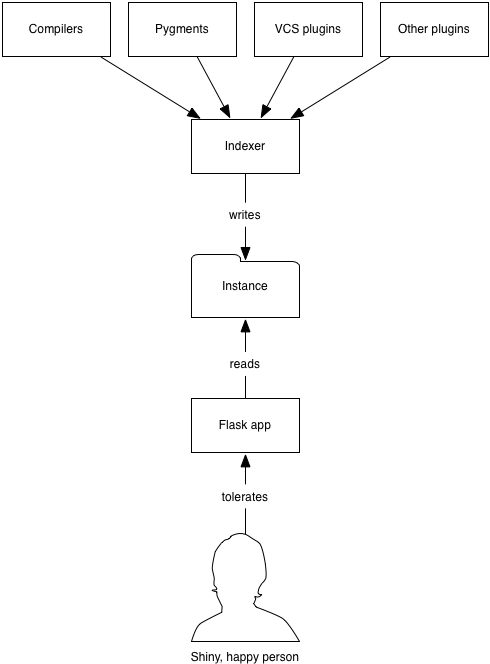
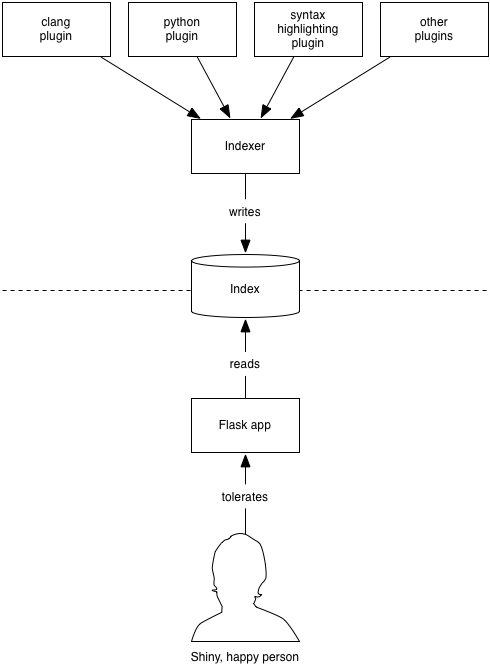
Bring Development chapter up to date.

diff --git a/dxr/plugins/__init__.py b/dxr/plugins/__init__.py
@@ -48,8 +48,8 @@ class Plugin(object):
         :arg mappings: Additional Elasticsearch mapping definitions for all the
             plugin's elasticsearch-destined data. A dict with keys for each
             doctype and values reflecting the structure described at
-            http://www.elasticsearch.org/guide/en/elasticsearch/reference/
-            current/indices-put-mapping.html. Since a FILE-domain query will
+            http://www.elastic.co/guide/en/elasticsearch/reference/current/indices-put-mapping.html.
+            Since a FILE-domain query will
             be promoted to a LINE query if any other query term triggers a
             line-based query, it's important to keep field names and semantics
             the same between lines and files. In other words, a LINE mapping
@@ -57,8 +57,7 @@ class Plugin(object):
         :arg analyzers: Analyzer, tokenizer, and token and char filter
             definitions for the elasticsearch mappings. A dict with keys
             "analyzer", "tokenizer", etc., following the structure outlined at
-            http://www.elasticsearch.org/guide/en/elasticsearch/reference/
-            current/analysis.html.
+            http://www.elastic.co/guide/en/elasticsearch/reference/current/analysis.html.
         :arg direct_searchers: Functions that provide direct search
             capability. Each must take a single query term of type 'text',
             return an elasticsearch filter clause to run against LINEs, and

diff --git a/docs/source/development.rst b/docs/source/development.rst
@@ -8,32 +8,31 @@ Architecture
 
 .. image:: block-diagram.png
 
-DXR divides into 2 halves:
+DXR divides into 2 halves, with the index in the middle:
 
 1. The indexer, run via :program:`dxr index`, is a batch job which analyzes
-   code and builds on-disk indices.
+   code and builds indices in elasticsearch.
 
    The indexer hosts various plugins which handle everything from syntax
-   coloring to static analysis. The clang plugin, for example, which handles
-   structural analysis of C++ code, builds the project under clang while
-   interposing a custom compiler plugin. The plugin rides sidecar with the
-   compiler, dumping out structural data into CSV files, which the DXR plugin
-   later uses to fill elasticsearch with the information that supports
+   coloring to static analysis. The clang plugin, for example, handles
+   structural analysis of C++ code by building the project under clang while
+   interposing a custom compiler plugin that dumps out data during
+   compilation. This is later pulled into elasticsearch, where it supports
    structural queries like ``callers:`` and ``function:``.
 
    Generally, the indexer is kicked off asynchronously—often even on a separate
    machine—by cron or a build system. It's up to deployers to come up with
    strategies that make sense for them.
 
-2. A Flask web application which lets users query those indices.
-   :program:`dxr serve` is a way to run the application for development
-   purposes, but a more robust method should be used for :doc:`deployment`.
+2. A Flask web application which lets users query indices. :program:`dxr
+   serve` is a way to run the application for development purposes, though a
+   more robust method should be used for :doc:`deployment`.
 
 
 Setting Up
 ----------
 
-Here we show the fastest way to get hacking on DXR.
+Here is the fastest way to get hacking on DXR.
 
 .. include:: download-boot-and-build.rst
 
@@ -63,7 +62,7 @@ host and still use the VM to run DXR.
 After making changes to DXR, a build step is sometimes needed to see the
 effects of your work:
 
-Changes to C-based compiler plugins:
+Changes to C++ or other code with an explicit compilation phase:
     ``make`` (at the root of the project)
 
 Changes to HTML templates that are used on the client side:
@@ -72,12 +71,14 @@ Changes to HTML templates that are used on the client side:
     and it will take care of recompiling the templates as necessary.
 
 Changes to the format of the elasticsearch index:
-    Run ``dxr index`` inside :file:`tests/test_basic`.
+    Re-run ``dxr index`` inside your test folder (e.g.,
+    :file:`tests/test_basic`). Before committing, you should increment the
+    :term:`format version`.
 
-Stop :program:`dxr serve`, run the build step, and then fire up the server
-again. If you're changing Python code that runs only at request time, you
-shouldn't need to do anything; :program:`dxr serve` should notice and
-restart itself a few seconds after you save.
+Stop :program:`dxr serve`, run any applicable build steps, and then fire up
+the server again. If you're changing Python code that runs only at request
+time, you shouldn't need to do anything; :program:`dxr serve` will notice
+and restart itself a few seconds after you save.
 
 
 Testing
@@ -91,21 +92,23 @@ welcome as well, but we haven't got the harness set up yet.)
 Writing Tests for DXR
 =====================
 
-DXR supports two kinds of tests:
+DXR supports two kinds of integration tests:
 
-1. A lightweight sort with a single file worth of C++ code. This kind
-   stores the C++ source as a Python string within a subclass of
-   ``SingleFileTestCase``. At test time, it creates a DXR instance on
+1. A lightweight sort with a single file worth of analyzed code. This kind
+   stores the code as a Python string within a subclass of
+   ``SingleFileTestCase``. At test time, it instantiates the file on
    disk in a temp folder, builds it, and makes assertions about it. If
-   the ``should_delete_instance`` class variable is truthy, it then
-   deletes the instance. If you want to examine the instance manually
-   for troubleshooting, set this to ``False``.
+   the ``should_delete_instance`` class variable is truthy (the default), it
+   then deletes the instance. If you want to examine the instance manually for
+   troubleshooting, set this to ``False``.
 
-2. A heavier sort which consists of a full DXR instance on disk.
-   ``test_ignores`` is an example. Within these instances are one or
-   more Python files containing subclasses of ``DxrInstanceTestCase``
-   which express the actual tests. These instances can be built like any
-   other using ``dxr index``, in case you want to do manual exploration.
+2. A heavier sort of test: a folder containing one or more source trees and a
+   DXR config file. These are useful for tests that require a multi-file tree
+   to analyze or more than one tree. ``test_ignores`` is an example. Within
+   these folders are also one or more Python files containing subclasses of
+   ``DxrInstanceTestCase`` which express the actual tests. These trees can be
+   built like any other using ``dxr index``, in case you want to do manual
+   exploration.
 
 Running the Tests
 =================
@@ -133,27 +136,28 @@ periods.
 The Format Version
 ------------------
 
-In the top level of the :file:`dxr` package lurks a file called
+In the top level of the :file:`dxr` package (not the top of the source
+checkout, mind you) lurks a file called
 :file:`format`. Its role is to facilitate the automatic deployment of new
-versions of DXR using a script like the included :file:`deploy.py`. The format
-file contains an integer which represents the index format expected by
-:program:`dxr serve`. If a change in the code requires a schema or semantics
-change in the index, the format version must be incremented with the code
-change. In response, the deployment script will wait until a new instance, of
-the new format, has been built before deploying the change.
+versions of DXR using :program:`dxr deploy`. The format file contains an
+integer which represents the index format expected by
+:program:`dxr serve`. If a change in the code requires a mapping or semantics
+change in the index, the format version must be incremented. In response, the
+deployment script will wait until new indices, of the new format, have been
+built before deploying the change.
 
 If you aren't sure whether to bump the format version, you can always build an
 index using the old code, then check out the new code and try to serve the
-old instance with it. If it works, you're probably safe not bumping the
-version.
+old index with it. If it works, you're probably safe not bumping the version.
 
 
 Coding Conventions
 ------------------
 
-Follow `PEP 8`_ for Python code, but don't sweat the line length too much.
+Follow `PEP 8`_ for Python code, but don't sweat the line length too much. Follow `PEP  257`_ for docstrings, and use Sphinx-style argument documentation.
 
 .. _PEP 8: http://www.python.org/dev/peps/pep-0008/
+.. _PEP 257: http://www.python.org/dev/peps/pep-0257/
 
 
 .. _writing-plugins:
@@ -161,11 +165,11 @@ Follow `PEP 8`_ for Python code, but don't sweat the line length too much.
 Writing Plugins
 ---------------
 
-Plugins are the recommended way to add new types of analysis, indexing,
-searching, or display to DXR. In fact, even DXR's basic capabilities, such as
-text search and syntax coloring, are implemented as plugins. Want to add
-support for a new language? A new kind of search to an existing language? A
-new kind of contextual menu cross-reference? You're in the right place.
+Plugins are the way to add new types of analysis, indexing, searching, or
+display to DXR. In fact, even DXR's basic capabilities, such as text search
+and syntax coloring, are implemented as plugins. Want to add support for a new
+language? A new kind of search to an existing language? A new kind of
+contextual menu cross-reference? You're in the right place.
 
 At the top level, a :class:`~dxr.plugins.Plugin` class binds together a
 collection of subcomponents which do the actual work:
@@ -181,8 +185,7 @@ collection of subcomponents which do the actual work:
 Registration
 ============
 
-A Plugin class is registered, either directly or indirectly, via a `setuptools
-entry point
+A Plugin class is registered via a `setuptools entry point
 <https://pythonhosted.org/setuptools/setuptools.html#dynamic-discovery-of-
 services-and-plugins>`__ called ``dxr.plugins``. For example, here are the
 registrations for the built-in plugins, from DXR's own :file:`setup.py`::
@@ -194,8 +197,8 @@ registrations for the built-in plugins, from DXR's own :file:`setup.py`::
                                   'pygmentize = dxr.plugins.pygmentize']},
 
 The keys in the key/value pairs, like "urllink" and "buglink", are the strings
-the deployer can use in the ``enabled_plugins`` config directive. The values,
-like "dxr.plugins.urllink", can point to either...
+the deployer can use in the ``enabled_plugins`` config directive to turn them
+on or off. The values, like "dxr.plugins.urllink", can point to either...
 
 1. A :class:`~dxr.plugins.Plugin` class which itself points to filters,
    skimmers, indexers, and such. This is the explicit approach—more lines of
@@ -217,7 +220,7 @@ manually:
 
     .. autoclass:: dxr.plugins.Plugin
        :members:
-    
+
 Actual plugin functionality is implemented within tree indexers, file
 indexers, filters, and skimmers.
 
@@ -328,10 +331,8 @@ DXR's core mapping, defined in the ``core`` plugin::
 
 Mappings follow exactly the same structure as required by `ES's "put mapping"
 API
-<http://www.elasticsearch.org/guide/en/elasticsearch/reference/current/indices
--put-mapping.html>`__. The `choice of mapping types
-<http://www.elasticsearch.org/guide/en/elasticsearch/reference/current/mapping
--types.html>`__ is also outlined in the ES documentation.
+<http://www.elastic.co/guide/en/elasticsearch/reference/current/indices-put-mapping.html>`__. The `choice of mapping types
+<http://www.elastic.co/guide/en/elasticsearch/reference/current/mapping-types.html>`__ is also outlined in the ES documentation.
 
 .. warning::
 
@@ -340,19 +341,20 @@ API
     and semantics the same between lines and files. In other words, a LINE
     mapping should generally be a superset of a FILE mapping. Otherwise, ES
     will guess mappings for the undeclared fields, and surprising search
-    results will likely ensue.
+    results will likely ensue. Worse, the bad guesses will likely happen
+    intermittently.
 
 Analyzers
 =========
 
 In Mappings, we alluded to custom indexing strategies, like breaking strings
 into lowercase trigrams. These strategies are called
-:term:`analyzers<analyzer>` and are the final subcomponent of a plugin. ES has
+:term:`analyzers<analyzer>` and are the final component of a plugin. ES has
 `strong documentation on defining analyzers
-<http://www.elasticsearch.org/guide/en/elasticsearch/reference/current/
-analysis.html#analysis>`__. Declare your analyzers (and building blocks of
-them, like tokenizers) in the same format the ES documentation prescribes. For
-example, the analyzers used above are defined in the core plugin as follows::
+<http://www.elastic.co/guide/en/elasticsearch/reference/current/analysis.html>`__.
+Declare your analyzers (and building blocks of them, like tokenizers) in
+the same format the ES documentation prescribes. For example, the analyzers
+used above are defined in the core plugin as follows::
 
     analyzers = {
         'analyzer': {
@@ -379,10 +381,10 @@ example, the analyzers used above are defined in the core plugin as follows::
 Crash Early, Crash Often
 ========================
 
-Since DXR's indexer generally runs without manual supervision, it's better to
-err on the side of crashing than to risk incorrectness. Any error that could
-make a plugin emit inaccurate output should be fatal. This keeps DXR's
-structural queries trustworthy.
+Since :program:`dxr index` generally runs without manual supervision, it's
+better to err on the side of crashing than to risk incorrectness. Any error
+that could make a plugin emit inaccurate output should be fatal. This keeps
+DXR's structural queries trustworthy.
 
 
 Contributing Documentation
@@ -391,9 +393,10 @@ Contributing Documentation
 We use `Read the Docs`_ for building and hosting the documentation, which uses
 `sphinx`_ to generate HTML documentation from reStructuredText markup.
 
-To make changes to documentation:
+To edit documentation:
+
   * Edit :file:`*.rst` files in :file:`docs/source/` in your local checkout.
-    See `reStructuredText primer`_ for syntax aids.
+    See `reStructuredText primer`_ for help with syntax.
   * Use ``cd ~/dxr/docs && make html`` in the VM to preview the docs.
   * When you're satisfied, submit the pull request as usual.
 
@@ -411,9 +414,9 @@ Why is my copy of DXR acting erratic, failing at searches, making requests for J
     edits to the originals will have no effect.
 
 How can I use pdb to debug indexing?
-    In the DXR config file for the tree you're building, add ``disable_workers
-    = true`` to the ``[DXR]`` section. That will keep DXR from spawning
-    multiple worker processes, something pdb doesn't tolerate well.
+    In the DXR config file for the tree you're building, add ``workers = 0``
+    to the ``[DXR]`` section. That will keep DXR from spawning multiple worker
+    processes, something pdb doesn't tolerate well.
 
 I pulled a new version of the code that's supposed to have a new plugin (or I added one myself), but it's acting like it doesn't exist.
     Re-run ``python setup.py develop`` to register the new setuptools entry point.

diff --git a/docs/source/glossary.rst b/docs/source/glossary.rst
@@ -14,9 +14,10 @@ Glossary
 
     format version
         A string (though usually looking like an int) signifying the index
-        format. It is used to control deployments, never switching to a new
-        version of the web-serving code until all indices have been brought up
-        to the format version it requires.
+        format. It is used to control deployments: :program:`dxr deploy` never
+        switches to a new version of the web-serving code until all indices
+        have been brought up to the format version it requires. The format
+        version is declared in :file:`dxr/format`.
 
     index
         The collected data used to answer queries about a tree and render the
